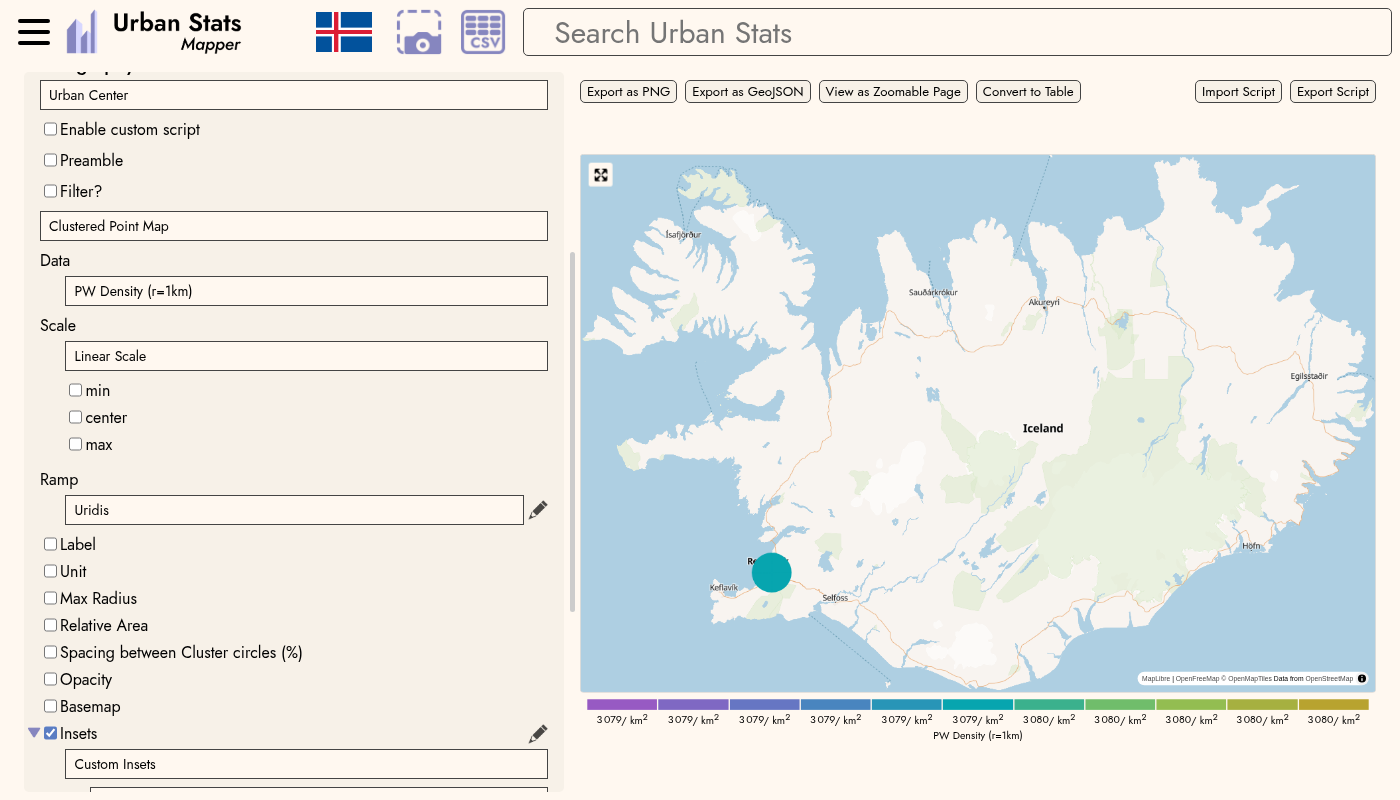
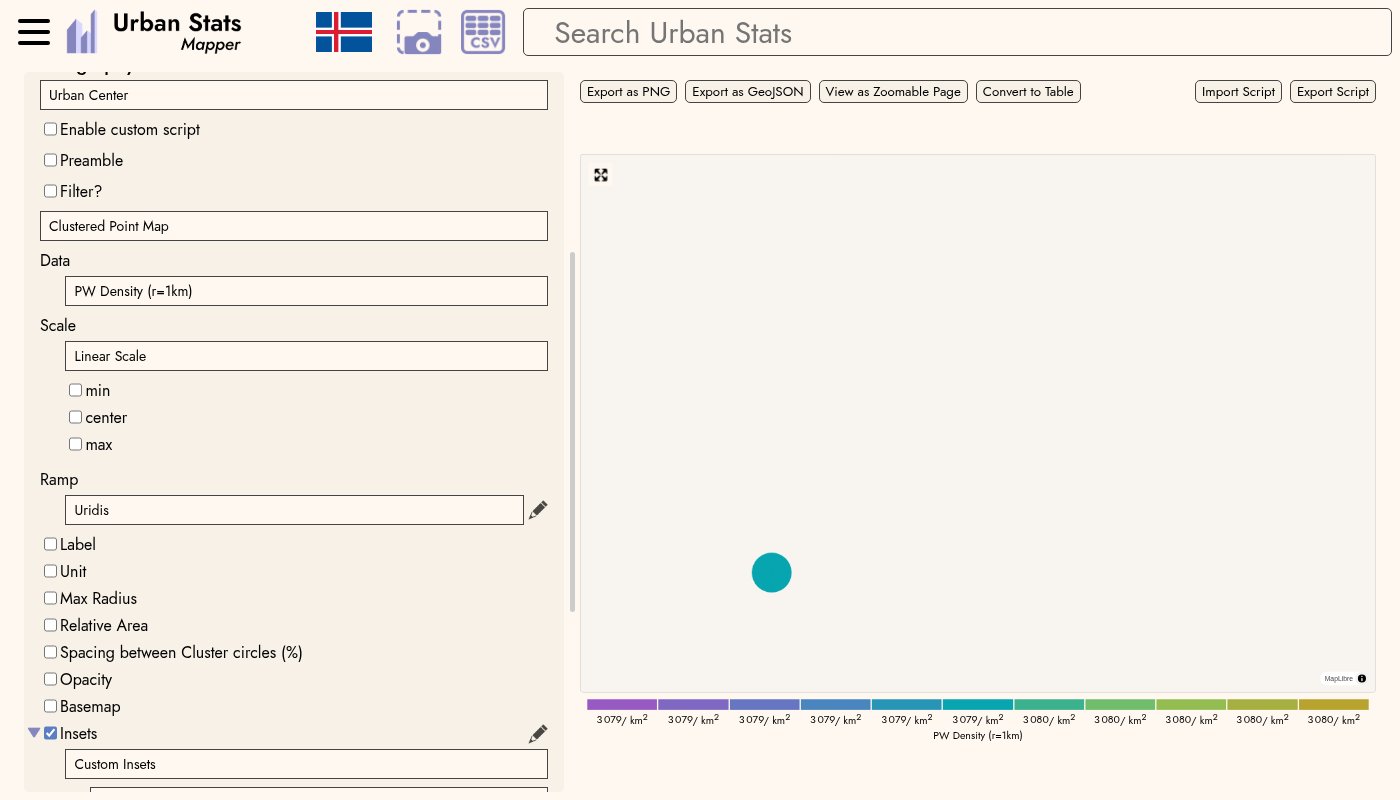
clean up exposing maps for tests (#1914)

diff --git a/react/src/mapper/components/InsetMap.tsx b/react/src/mapper/components/InsetMap.tsx
@@ -1,11 +1,10 @@
 import React, { HTMLAttributes, ReactNode, RefObject, useEffect, useRef, useState } from 'react'
-import { MapProps, MapRef, useMap } from 'react-map-gl/maplibre'
+import { MapRef, useMap } from 'react-map-gl/maplibre'
 
-import { CustomAttributionControlComponent, insetBorderWidth } from '../../components/map-common'
+import { CommonMapProps, CustomAttributionControlComponent, insetBorderWidth } from '../../components/map-common'
 import { defaultMapBorderRadius, mapBorderWidth, useScreenshotMode } from '../../components/screenshot'
 import { useColors } from '../../page_template/colors'
 import { Inset } from '../../urban-stats-script/constants/insets'
-import { TestUtils } from '../../utils/TestUtils'
 import { Edit } from '../../utils/array-edits'
 import { useMobileLayout } from '../../utils/responsive'
 
@@ -20,7 +19,7 @@ interface InsetMapProps {
 
 // eslint-disable-next-line no-restricted-syntax -- Forward Ref
 function _InsetMap({ inset, children, editInset, container, i, numInsets, interactive }: InsetMapProps & {
-    children: (mapLibreProps: Partial<MapProps>, mapChildren: ReactNode, subRef: React.Ref<MapRef>) => ReactNode
+    children: (mapLibreProps: Partial<CommonMapProps>, mapChildren: ReactNode, subRef: React.Ref<MapRef>) => ReactNode
 }, ref: React.Ref<MapRef>): ReactNode {
     const colors = useColors()
 
@@ -36,12 +35,11 @@ function _InsetMap({ inset, children, editInset, container, i, numInsets, intera
                     editInset?.modify({ coordBox: newBox })
                 }}
             />
-            <ExposeMapForTesting id={id} />
             {inset.mainMap && <CustomAttributionControlComponent startShowingAttribution={true} />}
         </>
     )
 
-    const mapLibreProps: Partial<MapProps> = {
+    const mapLibreProps: Partial<CommonMapProps> = {
         style: {
             position: 'absolute',
             inset: 0,
@@ -52,6 +50,7 @@ function _InsetMap({ inset, children, editInset, container, i, numInsets, intera
         },
         attributionControl: false,
         interactive,
+        testId: id,
     }
     return (
         <div
@@ -126,12 +125,6 @@ function HandleInsets({ inset, setCoordBox }: { inset: Inset, setCoordBox: (newB
         }
     }, [map, setCoordBox])
 
-    return null
-}
-
-function ExposeMapForTesting({ id }: { id: string }): ReactNode {
-    const map = useMap().current!.getMap()
-    TestUtils.shared.mapsWithIDs.set(id, new WeakRef(map))
     return null
 }
 

diff --git a/react/src/utils/TestUtils.ts b/react/src/utils/TestUtils.ts
@@ -1,5 +1,4 @@
 import type maplibregl from 'maplibre-gl'
-import type { MapRef } from 'react-map-gl/maplibre'
 
 import { keptByNoBasemap } from '../components/map-common-utils'
 
@@ -42,11 +41,7 @@ export class TestUtils {
         }
     }
 
-    // has to be a list, not a WeakSet. WeakSets cannot be iterated, defeating the purpose
-    // this is a bit of a memory leak, but not much of one, should add just a few
-    // bytes per user interaction.
-    allMaps: WeakRef<maplibregl.Map>[] = []
-    readonly mapsWithIDs = new Map<string, WeakRef<maplibregl.Map>>()
+    readonly maps = new Map<string, maplibregl.Map>()
 
     readonly clickableMaps = new Map<string, {
         clickFeature: (name: string) => void
@@ -91,37 +86,15 @@ export class TestUtils {
     }
 
     disableBasemapLayers(): void {
-        this.allMaps.forEach((mapRef) => {
-            const map = mapRef.deref()
-            if (map) {
-                let layers: string[]
-                try {
-                    layers = map.getLayersOrder()
-                }
-                catch (e) {
-                    console.warn(
-                        'Error getting layers order. '
-                        + 'TBH no idea why this is happening, I assume it\'s an internal state issue.'
-                        + ' Underlying error: ', e)
-                    layers = []
-                }
-                for (const layerId of layers) {
-                    const layer = map.getLayer(layerId)
-                    if (layer && !keptByNoBasemap(layer)) {
-                        map.setLayoutProperty(layerId, 'visibility', 'none')
-                    }
+        for (const map of this.maps.values()) {
+            const layers = map.getLayersOrder()
+            for (const layerId of layers) {
+                const layer = map.getLayer(layerId)
+                if (layer && !keptByNoBasemap(layer)) {
+                    map.setLayoutProperty(layerId, 'visibility', 'none')
                 }
             }
-        })
-    }
-
-    addMapToAllMaps(map: MapRef): void {
-        this.allMaps = this.allMaps.filter(ref => ref.deref() !== undefined)
-        const mapObj = map.getMap()
-        if (this.allMaps.some(ref => ref.deref() === mapObj)) {
-            return
         }
-        this.allMaps.push(new WeakRef(mapObj))
     }
 }
 

diff --git a/react/src/components/map-common.tsx b/react/src/components/map-common.tsx
@@ -26,10 +26,15 @@ export const insetBorderWidth = 2
 
 void maplibregl.setRTLTextPlugin('https://unpkg.com/@mapbox/mapbox-gl-rtl-text@0.3.0/dist/mapbox-gl-rtl-text.js', true)
 
+export type CommonMapProps = MapProps & { testId?: string }
+
 // eslint-disable-next-line no-restricted-syntax -- Forwarded ref
-function _CommonMaplibreMap(props: MapProps, ref: React.Ref<MapRef>): ReactNode {
+function _CommonMaplibreMap(props: CommonMapProps, ref: React.Ref<MapRef>): ReactNode {
     const colors = useColors()
     const isScreenshotMode = useScreenshotMode()
+
+    const fallbackTestId = useId()
+    const testId = props.testId ?? fallbackTestId
 
     return (
         <Map
@@ -48,8 +53,22 @@ function _CommonMaplibreMap(props: MapProps, ref: React.Ref<MapRef>): ReactNode 
                 backgroundColor: isScreenshotMode ? 'transparent' : colors.slightlyDifferentBackground,
                 ...props.style,
             }}
-        />
+        >
+            {props.children}
+            <ExposeMapForTesting id={testId} />
+        </Map>
     )
+}
+
+function ExposeMapForTesting({ id }: { id: string }): ReactNode {
+    const map = useMap().current!.getMap()
+    useEffect(() => {
+        TestUtils.shared.maps.set(id, map)
+        return () => {
+            TestUtils.shared.maps.delete(id)
+        }
+    }, [map, id])
+    return null
 }
 
 // eslint-disable-next-line no-restricted-syntax -- Is a function component
@@ -235,13 +254,6 @@ function useClickable({ id, clickable, features }: { id: string, clickable: bool
     const universe = useUniverse()
 
     const { current: map } = useMap()
-
-    useEffect(() => {
-        if (map === undefined) {
-            return
-        }
-        TestUtils.shared.addMapToAllMaps(map)
-    }, [map])
 
     useEffect(() => {
         if (clickable) {

diff --git a/react/test/mapper-edit-insets.ts b/react/test/mapper-edit-insets.ts
@@ -33,7 +33,7 @@ export function runTests(platform: 'desktop' | 'mobile'): void {
             if (mapId === undefined) {
                 return undefined
             }
-            const mapObj = (window as unknown as TestWindow).testUtils.mapsWithIDs.get(mapId)!.deref()!
+            const mapObj = (window as unknown as TestWindow).testUtils.maps.get(mapId)!
             const latLon = mapObj.getBounds()
             return {
                 n: Math.round(latLon.getNorth()),
